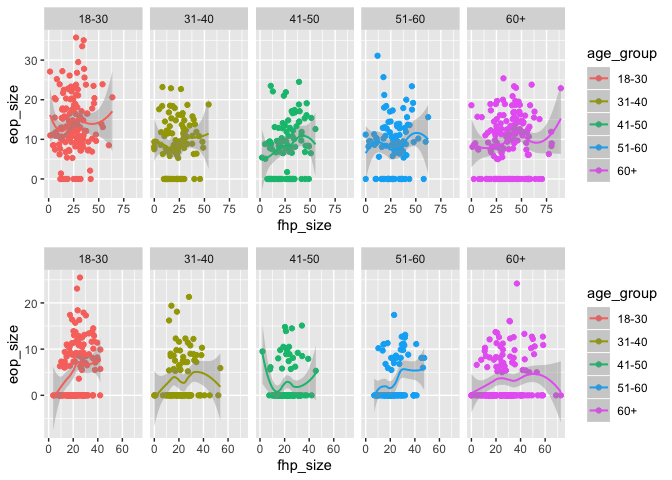
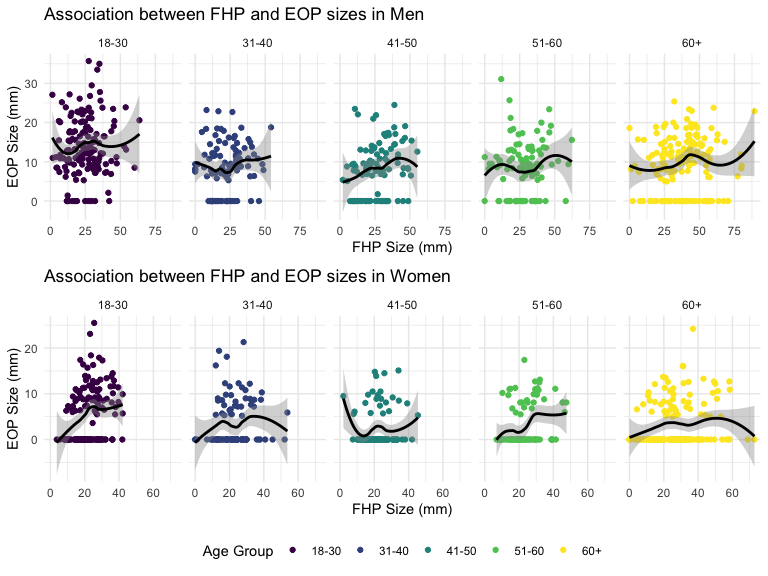
Q2 Done!

diff --git a/p8105_mtp_cm3928.md b/p8105_mtp_cm3928.md
@@ -5,12 +5,9 @@ Clement Mugenzi
 
 # Introduction
 
-Research studies have been conducuted examining this very issue and some
-found strong evidence connecting smart device use to an enlarged
-“hornlike” spike at the back of the head, a formation mostly found in
-millenials. This project uses data analysis concepts to expands on one
-of those studies and uses data collected in order to refute or support
-conclusions made in that study.
+This project uses data analysis concepts to expand on a study that have
+been conducted examining the association between smart device use and
+enlarged “hornlike” spike mostly found in millenial’s skulls.
 
 # Data Description
 
@@ -82,12 +79,6 @@ age_gender =
     names_from = sex,
     values_from = frequency) %>% 
   knitr::kable()
-```
-
-    ## Warning: Factor `age_group` contains implicit NA, consider using
-    ## `forcats::fct_explicit_na`
-
-``` r
 age_gender
 ```
 
@@ -105,15 +96,15 @@ age_gender
 # EOP Size and Group
 hornlike_df %>% 
   drop_na() %>% 
-  ggplot(aes(x = eop_group, y = eop_size)) +
-  geom_point(aes(color = eop_size)) +
+  ggplot(aes(x = eop_group, y = eop_size, color = eop_size)) +
+  geom_point() +
   labs(
     title = "Figure 1. EOP Size Versus EOP Group",
     x = "EOP Group",
     y = "EOP Size")
 ```
 
-![](p8105_mtp_cm3928_files/figure-gfm/unnamed-chunk-3-1.png)<!-- -->
+<img src="p8105_mtp_cm3928_files/figure-gfm/unnamed-chunk-3-1.png" width="90%" />
 
 I notice several issues in this figure. Here the categorical variable
 **eop\_group** is misclassifying several continuous **eop\_size**
@@ -126,15 +117,15 @@ ranges.
 # FHP Size and Group
 hornlike_df %>% 
   drop_na() %>% 
-  ggplot(aes(x = fhp_group, y = fhp_size)) +
-  geom_point(aes(color = fhp_size)) +
+  ggplot(aes(x = fhp_group, y = fhp_size, color = fhp_size)) +
+  geom_point() +
   labs(
     title = "Figure 2. FHP Size Versus FHP Group",
     x = "FHP Group",
     y = "FHP Size")
 ```
 
-![](p8105_mtp_cm3928_files/figure-gfm/unnamed-chunk-4-1.png)<!-- -->
+<img src="p8105_mtp_cm3928_files/figure-gfm/unnamed-chunk-4-1.png" width="90%" />
 
 The same pattern of misclassification is happening here as well where
 FHP sizes are being classified in groups they should not be classified
@@ -149,17 +140,14 @@ a missing value instead of being classified in the **30-40** range.
 fig_3 = 
   hornlike_df %>% 
   drop_na() %>% 
-  ggplot(aes(x = fhp_size, fill = sex)) +
-  geom_histogram(position = "dodge", binwidth = 2) +
-  theme(legend.position = "none") +
+  ggplot(aes(x = fhp_size, fill = age_group)) +
+  geom_histogram(position = "dodge", binwidth = 3) +
   labs(
     title = "Distribution of FHP Size with respect to Sex",
     x = "FHP Size",
     y = "Count",
-    caption = "Size between 0 and 89.3"
+    caption = "Figure.3 Size between 0 and 89.3"
   )
-  
-
 
 fig_4 = 
   hornlike_df %>% 
@@ -174,23 +162,20 @@ fig_4 =
   geom_point() + 
   geom_line() +
   labs(
-    title = "Rate of EEOP per Age Group",
+    title = "Figure.4 Rate of EEOP per Age Group",
     x = "Age Group",
     y = "Rate (Percent)"
   )
-```
 
-    ## Warning: Factor `age_group` contains implicit NA, consider using
-    ## `forcats::fct_explicit_na`
-    
-    ## Warning: Factor `age_group` contains implicit NA, consider using
-    ## `forcats::fct_explicit_na`
-
-``` r
 fig_3 / fig_4
 ```
 
-![](p8105_mtp_cm3928_files/figure-gfm/unnamed-chunk-5-1.png)<!-- -->
+<img src="p8105_mtp_cm3928_files/figure-gfm/unnamed-chunk-5-1.png" width="90%" />
+
+From figure 3, we can clearly conclude that most FHP sizes are
+concentrated in the 18-30 age group and within 10-30 mm range. And from
+figure 4, there is a higher and lower percentages of EEOP in males and
+females respectively, all in the 41-50 age group.
 
 ``` r
 # 2x5 Collection of Panels
@@ -201,7 +186,13 @@ male_panel =
   ggplot(aes(x = fhp_size, y = eop_size, color = age_group)) +
   facet_grid(~age_group) + 
   geom_point() + 
-  geom_smooth(size = 0.7)
+  theme(legend.position = "none") +
+  geom_smooth(color = "black", linetype = 1) +
+  labs(
+    title = "Association between FHP and EOP sizes in Men",
+    x = "FHP Size (mm)",
+    y = "EOP Size (mm)"
+  )
 
 
 female_panel = 
@@ -211,7 +202,13 @@ female_panel =
   ggplot(aes(x = fhp_size, y = eop_size, color = age_group)) +
   facet_grid(~age_group) +
   geom_point() +
-  geom_smooth(size = 0.7)
+  geom_smooth(color = "black", linetype = 1) +
+  labs(
+    title = "Association between FHP and EOP sizes in Women",
+    x = "FHP Size (mm)",
+    y = "EOP Size (mm)",
+    color = "Age Group"
+  )
 
 male_panel / female_panel 
 ```
@@ -219,4 +216,8 @@ male_panel / female_panel
     ## `geom_smooth()` using method = 'loess' and formula 'y ~ x'
     ## `geom_smooth()` using method = 'loess' and formula 'y ~ x'
 
-![](p8105_mtp_cm3928_files/figure-gfm/unnamed-chunk-6-1.png)<!-- -->
+<img src="p8105_mtp_cm3928_files/figure-gfm/unnamed-chunk-6-1.png" width="90%" />
+
+There seems to be an positive association between FHP and EOP sizes for
+female subjects in the 18-30 age group and male subjects in the above 60
+age group.
